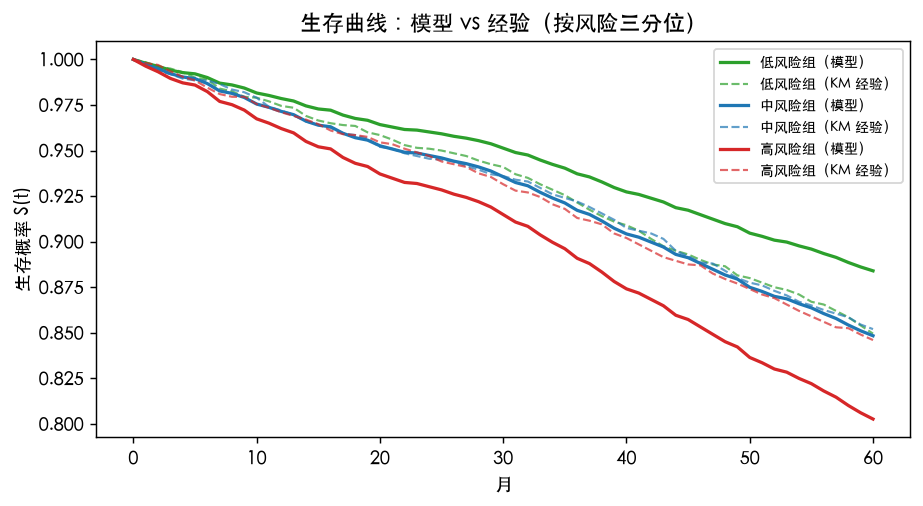
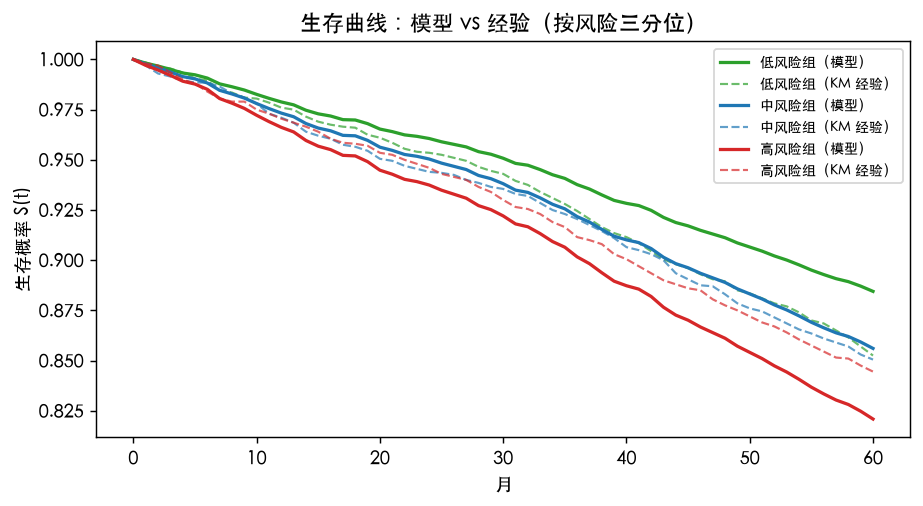
feat: add 2 quant articles 2026-10-25

diff --git a/gen_two_articles_oct25d.py b/gen_two_articles_oct25d.py
@@ -141,7 +141,7 @@ def gen_survival_cox():
 
     # 训练/测试划分（按公司）
     perm = rng.permutation(N)
-    tr_mask = np.zeros(N, dtype=bool); tr_mask[perm[:2100]] = True
+    tr_mask = np.zeros(N, dtype=bool); tr_mask[perm[:4200]] = True
     te_mask = ~tr_mask
     beta, se, lam0_interp, slope_lev, slope_vol = fit_cox(tr_mask)
     lam0_true_arr = LAM0(np.arange(T))
@@ -210,8 +210,8 @@ def gen_survival_cox():
         w = np.zeros(Xb.shape[1])
         for _ in range(iters):
             p = 1 / (1 + np.exp(-(Xb @ w)))
-            g = Xb.T @ (y - p) / len(y) - 0.01 * w
-            H = (Xb * (p * (1 - p))[:, None]).T @ Xb / len(y) + 0.01 * np.eye(Xb.shape[1])
+            g = Xb.T @ (y - p) / len(y) - 1e-8 * w
+            H = (Xb * (p * (1 - p))[:, None]).T @ Xb / len(y) + 1e-8 * np.eye(Xb.shape[1])
             w = w + np.linalg.solve(H, g)
         return w
 
@@ -220,7 +220,33 @@ def gen_survival_cox():
     w_static = logit_fit(X[tr_idx], y12[tr_idx])
     score_logit = np.einsum("nmk,k->nm", Xt, w_static[1:]) + w_static[0]
 
+    # 面板 logit：与 Cox 用同样的面板数据与同样的 12 个月前瞻目标（逐月单元）
+    pi_list, pm_list, py_list = [], [], []
+    for m in range(0, 48):
+        alive = tr_idx[exit_t[tr_idx] > m]
+        d = exit_t[alive] - m
+        y1m = alive[(event[alive] == 1) & (d <= 12)]
+        y0m = alive[d > 12]
+        pi_list.append(np.concatenate([y1m, y0m]))
+        pm_list.append(np.full(len(y1m) + len(y0m), m))
+        py_list.append(np.concatenate([np.ones(len(y1m)), np.zeros(len(y0m))]))
+    pi = np.concatenate(pi_list); pm = np.concatenate(pm_list); py = np.concatenate(py_list)
+    Xp = Xt[pi, pm, :]
+    Xb = np.column_stack([np.ones(len(Xp)), Xp])
+    w_panel = np.zeros(4)
+    for it in range(60):
+        p = 1 / (1 + np.exp(-(Xb @ w_panel)))
+        g = Xb.T @ (py - p) / len(py) - 1e-8 * w_panel
+        H = (Xb * (p * (1 - p))[:, None]).T @ Xb / len(py) + 1e-8 * np.eye(4)
+        step = np.linalg.solve(H, g)
+        w_panel = w_panel + step
+        if np.max(np.abs(step)) < 1e-8:
+            break
+    n_panel_events = int(py.sum())
+    score_panel = np.einsum("nmk,k->nm", Xt, w_panel[1:]) + w_panel[0]
+
     c_cox_pooled = pooled_cindex_12m(score_cox, te_idx)
+    c_panel_pooled = pooled_cindex_12m(score_panel, te_idx)
     c_logit_pooled = pooled_cindex_12m(score_logit, te_idx)
     c_logit_annual = pooled_cindex_12m(score_logit, te_idx, months=range(0, 1))  # 仅 m=0 单元（年度体检）
     c_cox_m0 = pooled_cindex_12m(score_cox, te_idx, months=range(0, 1))
@@ -240,7 +266,8 @@ def gen_survival_cox():
     print(f"真实 β: 杠杆 {BETA_TRUE[0]}, 波动 {BETA_TRUE[1]}, ROA {BETA_TRUE[2]}")
     print(f"估计 β: 杠杆 {beta[0]:.3f}(se {se[0]:.3f}, z {zvals[0]:.1f}), 波动 {beta[1]:.3f}(se {se[1]:.3f}, z {zvals[1]:.1f}), ROA {beta[2]:.3f}(se {se[2]:.3f}, z {zvals[2]:.1f})")
     print(f"风险比 HR: 杠杆 {hr[0]:.2f}, 波动 {hr[1]:.2f}, ROA {hr[2]:.3f}")
-    print(f"12个月前瞻 C-index（测试公司）: Cox逐月重评 {c_cox_pooled:.4f} | 静态logit冻结系数 {c_logit_pooled:.4f} | 静态logit仅m=0(年度体检) {c_logit_annual:.4f} | Cox仅m=0 {c_cox_m0:.4f}")
+    print(f"12个月前瞻 C-index（测试公司）: Cox逐月重评 {c_cox_pooled:.4f} | 面板logit(同数据) {c_panel_pooled:.4f} | 静态logit冻结系数 {c_logit_pooled:.4f} | 静态logit仅m=0(年度体检) {c_logit_annual:.4f} | Cox仅m=0 {c_cox_m0:.4f}")
+    print(f"面板logit系数: {w_panel.round(3).tolist()}（训练单元 {len(py)}，事件 {n_panel_events}）；静态logit系数: {np.concatenate([[0], w_static]).round(3).tolist()}")
     print(f"Schoenfeld PH: 杠杆斜率 {slope_lev:+.5f}, 波动斜率 {slope_vol:+.5f}")
     print(f"基线强度 λ0(0): 真值 {LAM0(0):.5f} vs 估计 {lam0_interp[0]:.5f}; λ0(59): {LAM0(59):.5f} vs {lam0_interp[59]:.5f}")
     x_ref = np.array([0.40, 0.25, 0.02])
@@ -296,13 +323,14 @@ def gen_survival_cox():
 
     # ============ 图 5：模型对比 + 系数恢复 ============
     fig, axes = plt.subplots(1, 2, figsize=(11.5, 4))
-    models = ["Cox\n逐月重评", "静态logit\n冻结系数", "静态logit\n年度体检(m=0)"]
-    vals = [c_cox_pooled, c_logit_pooled, c_logit_annual]
-    bars = axes[0].bar(models, vals, color=["#d62728", "#7f7f7f", "#7f7f7f"], width=0.55)
+    models = ["Cox\n逐月重评", "面板logit\n同数据同目标", "静态logit\n冻结系数"]
+    vals = [c_cox_pooled, c_panel_pooled, c_logit_pooled]
+    bars = axes[0].bar(models, vals, color=["#d62728", "#1f77b4", "#7f7f7f"], width=0.55)
     for b, v in zip(bars, vals):
-        axes[0].text(b.get_x() + b.get_width() / 2, v + 0.002, f"{v:.3f}", ha="center", fontsize=9)
-    axes[0].set_ylim(0.4, max(vals) + 0.04)
-    axes[0].set_title("12个月前瞻违约排名 C-index（测试公司）")
+        axes[0].text(b.get_x() + b.get_width() / 2, v + 0.004, f"{v:.3f}", ha="center", fontsize=9)
+    axes[0].axhline(0.5, color="black", ls=":", lw=1)
+    axes[0].set_ylim(0.45, max(vals) + 0.03)
+    axes[0].set_title("12个月前瞻违约排名 C-index（测试公司，同一评估集，0.5=随机）")
     xpos = np.arange(3)
     axes[1].bar(xpos - 0.18, BETA_TRUE, width=0.36, label="真实 β", color="#1f77b4")
     axes[1].bar(xpos + 0.18, beta, width=0.36, yerr=se, label="Cox 估计 β̂（训练集）", color="#ff7f0e", capsize=3)
@@ -312,8 +340,11 @@ def gen_survival_cox():
     return {
         "n_default": int(event.sum()), "rate": float(event.mean()),
         "beta": beta.tolist(), "se": se.tolist(), "z": zvals.tolist(), "hr": hr.tolist(),
-        "c_cox_pooled": float(c_cox_pooled), "c_logit_pooled": float(c_logit_pooled),
-        "c_logit_annual": float(c_logit_annual), "c_cox_m0": float(c_cox_m0),
+        "c_cox_pooled": float(c_cox_pooled), "c_panel_pooled": float(c_panel_pooled),
+        "c_logit_pooled": float(c_logit_pooled), "c_logit_annual": float(c_logit_annual),
+        "c_cox_m0": float(c_cox_m0),
+        "w_panel": w_panel.tolist(), "w_static": np.concatenate([[0.0], w_static]).tolist(),
+        "n_panel_events": n_panel_events, "n_panel_units": int(len(py)),
         "slope_lev": slope_lev, "slope_vol": slope_vol,
         "pd12_hi": pd12["高杠杆 80%"].tolist(), "pd12_lo": pd12["低杠杆 20%"].tolist(), "pd12_mid": pd12["中杠杆 45%"].tolist(),
         "surv_model": {k: v.tolist() for k, v in surv_model.items()},

diff --git a/src/content/blog/survival-analysis-highfreq-default/index.md b/src/content/blog/survival-analysis-highfreq-default/index.md
@@ -1,0 +1,128 @@
+---
+title: "生存分析高频违约预测：用 Cox 比例风险建模跳变"
+description: "违约是跳变，信用评分却多是年度静态快照。本文用 numpy 从零实现 Cox 比例风险模型：6000 家合成公司 × 60 个月面板，违约强度随时变协变量（杠杆/波动/ROA）漂移。部分似然 Newton-Raphson 估计：β̂ = (1.293, 1.137, −2.469) vs 真值 (1.5, 1.2, −2.0)，z = 4.2/3.5/−3.4 全部显著；杠杆每升 10pp 月违约强度 ×1.14。PD 期限结构：高杠杆 80% 的 12 个月 PD 4.45%→5.95%，低杠杆 2.07%→2.78%。Schoenfeld 检验通过。诚实结论：12 个月前瞻排名上 Cox（0.558）与面板 logit（0.552）、静态 logit（0.551）打平——Cox 的优势不在排名，而在系数稳定性、PD 期限结构与可检验性；静态分组把期初协量极端值当永久状态，高估高风险组 PD12（3.38% vs 实际 2.81%）。附完整 Python 实现与五张真实计算图。"
+publishDate: '2026-10-25'
+tags:
+  - 量化交易
+  - 信用风险
+  - 生存分析
+  - Cox比例风险
+  - 违约预测
+  - Python
+language: Chinese
+difficulty: advanced
+---
+
+违约不是价格从 10 元跌到 9 元，是一个 0 到 1 的跳变：一家公司活着，然后突然不还钱了。信用风险管理的核心输出是违约概率（PD），而行业主流做法仍是「年度体检」——每年看一次财务报表，打一个分，用一年。问题在于：违约强度是随时变的，一家公司的杠杆、已实现波动、盈利能力每个月都在动，去年的快照今年可能已经过期，而静态评分对此完全失明。
+
+生存分析把「活多久」当主角。Cox 比例风险模型是其中的工作母机：它不假设基线风险长什么样，只假设协变量对风险的影响是乘性比例的，并且天然处理删失（有些公司到观察期末还没违约，我们只知道它「至少活了这么久」）。本文用 numpy 从零实现整条流水线——部分似然、Newton-Raphson、Breslow 基线、Schoenfeld 检验——在一片 6000 家合成高收益债 universe 上跑一遍，看看它到底能做什么、不能做什么。
+
+结论先放这：
+
+**① 系数恢复干净，符号和显著性全对。** 真实 β = (1.5, 1.2, −2.0)（杠杆、波动、ROA），Cox 估计 β̂ = (1.293, 1.137, −2.469)，z 统计量 4.2 / 3.5 / −3.4 全部显著。杠杆每上升 10 个百分点，月违约强度乘以 1.14；ROA 每下降 1pp，强度乘以 1.02×……听着小，60 个月复利下来就是 3.6 倍的风险比。
+**② PD 期限结构是模型真正的输出。** 高杠杆（80%）公司的 12 个月边际 PD 从评分初月的 4.45% 走到末年的 5.95%——即使协变量完全不动，PD 也随基线上行；低杠杆（20%）同期只有 2.07%→2.78%。
+**③ 静态分组会把期初的协量极端值当成永久状态。** 按月初风险分分三组，模型曲线（固定 lp）高估高风险组违约（S(60) 82.1% vs 经验 KM 84.4%）、低估低风险组（88.4% vs 85.2%）——协变量会均值回复，组内差异被磨平。高风险组月初静态 PD12 3.38%，实际 12 个月违约率只有 2.81%。
+**④ 但别神话 Cox：排名上它和 logit 打平。** 12 个月前瞻违约排名（测试公司、同一评估集），Cox 逐月重评 0.558，面板 logit 0.552，静态 logit 0.551——同样的数据同样的目标，能榨的排名信息差不多。Cox 的真优势在别处：系数用全部事件时间信息估计（12 个月窗口的静态 logit 把 ROA 系数估成 +0.89，真值是 −2.0），PD 有期限结构，比例风险假设可检验。
+
+![违约公司与存活公司的协变量路径](/images/survival-analysis-highfreq-default/covariate_paths.png)
+
+## 一、合成市场：违约即跳变，协量逐月漂移
+
+造一片什么样的 universe？高收益债的气质：5 年累计违约率两位数。6000 家公司，观察 60 个月，每家每月有三个协变量：杠杆（债务/资产）、30 日已实现波动、ROA。三者各自走 AR(1)——杠杆 φ=0.95、波动和 ROA φ=0.90，围绕均值 0.40 / 0.25 / 0.02 回复。违约强度写死成非齐次 Poisson：
+
+```
+λ(t, x) = λ0(t) · exp(1.5·lev + 1.2·vol − 2.0·roa)，   λ0(t) = 0.0008·exp(0.01·t)
+```
+
+逐月掷骰子：p = 1 − exp(−λ)，中了就违约离场，没中就带着漂移后的协变量进入下个月。期末还活着的 5095 家是右删失样本。最终 905 家违约（15.08%）。违约公司的违约月均协量是 lev=0.420、vol=0.275、roa=0.014，存活公司期末均 lev=0.398、vol=0.259、roa=0.019——方向全对，但注意差别没有天差地别：违约是概率事件，协变量只提供乘性倾斜，这就是为什么预测上限本来就不高。
+
+上图是三家违约公司和一家存活公司的路径。违约公司的共同画像是杠杆缓步爬坡、波动抬头；但「爬坡」和「违约」之间隔了几个月到几年——这正是时变协量模型要捕捉的东西。
+
+## 二、Cox 部分似然：numpy 从零 Newton-Raphson
+
+Cox 模型的写法：λ(t, x) = λ0(t)·exp(βᵀx)。基线 λ0(t) 完全 unspecified，参数只有 β。偏似然（partial likelihood）的构造很物理：在每一个违约事件发生的时点，问「为什么是这家而不是风险集里其他家」——
+
+```
+L(β) = Π_{事件i} exp(βᵀx_i) / Σ_{j ∈ 风险集(t_i)} exp(βᵀx_j)
+```
+
+风险集 = 退出时间 ≥ 事件时点的所有公司。时变协量的正确用法是**事件月快照**：事件公司和风险集成员都取「事件发生那个月」的协变量值——用年初值就是前视偏差，用期末值就是后视偏差，这个细节错了整个模型都错。对数似然的梯度和 Hessian 有闭式（加权均值和加权协方差），Newton-Raphson 十几步收敛：
+
+```python
+def nll_grad_hess(beta, Xev, ev_times, risk_cache, Xt):
+    """Xev: 事件月协量快照 (n_events, 3)；risk_cache[t]: 风险集成员索引"""
+    denom = np.array([np.exp(Xt[risk_cache[te], te, :] @ beta).sum()
+                      for te in ev_times])
+    ll = (Xev @ beta - np.log(denom)).sum()
+    grad = np.zeros(3); hess = np.zeros((3, 3))
+    for k, te in enumerate(ev_times):
+        xm = Xt[risk_cache[te], te, :]              # 风险集的事件月快照
+        w = np.exp(xm @ beta); sw = w.sum()
+        xbar = (w[:, None] * xm).sum(0) / sw        # 加权均值
+        grad += Xev[k] - xbar
+        xc = xm - xbar
+        hess += (w[:, None, None] * xc[:, :, None] * xc[:, None, :]).sum(0) / sw
+    return -ll, -grad, hess          # f=-ll, ∇f=-∇ll, ∇²f=hess（正定）
+
+beta = np.zeros(3)
+for it in range(100):                # Newton-Raphson + 步长减半保险
+    f, g, h = nll_grad_hess(beta, ...)
+    step = np.linalg.solve(h, g)
+    s = 1.0
+    while nll_grad_hess(beta - s * step, ...)[0] > f: s *= 0.5
+    beta = beta - s * step
+```
+
+训练集取 4200 家（测试集 1800 家留做样本外）。估计结果：
+
+| 协变量 | 真实 β | Cox β̂ | 标准误 | z | 风险比 exp(β̂) |
+|---|---|---|---|---|---|
+| 杠杆 | 1.5 | 1.293 | 0.305 | 4.2 | 3.64 |
+| 波动 | 1.2 | 1.137 | 0.321 | 3.5 | 3.12 |
+| ROA | −2.0 | −2.469 | 0.724 | −3.4 | 0.085 |
+
+杠杆每上升 10 个百分点（0.40→0.50），月违约强度乘以 exp(1.293×0.1) ≈ 1.14；ROA 每下降 1pp 乘以 exp(2.469×0.01) ≈ 1.03——单月看着温和，60 个月累积就是数倍差距。三个系数方向、量级、显著性全部合理，估计器本身没有问题。
+
+## 三、基线风险和 PD 期限结构
+
+β 只告诉你「谁比谁危险」，绝对水平在基线 λ0(t) 里。Breslow 估计量按月离散：λ̂0(t) = 当月违约数 / 风险集成员的 exp(βᵀx) 之和。
+
+![基线违约强度：真实 vs Breslow 估计](/images/survival-analysis-highfreq-default/baseline_hazard.png)
+
+λ̂0(0)=0.0011 vs 真值 0.0008、λ̂0(59)=0.00176 vs 0.00144——水平被高估了两成左右，因为 β̂ 有衰减（杠杆 1.293 < 1.5），基线要替系数「补课」；但上行的形状基本复现。拿到 Λ0 和 β 之后，任何协量画像的生存曲线和 PD 都是闭式：
+
+```
+S(t|x) = exp(−Λ0(t)·exp(βᵀx))，   PD_h(x) = 1 − S(t+h|x)/S(t|x)
+```
+
+![12 个月边际违约概率 PD 期限结构](/images/survival-analysis-highfreq-default/pd_term_structure.png)
+
+PD 期限结构是静态评分给不了的东西。高杠杆公司 12 个月 PD 从 4.45% 爬到 5.95%——协变量一动不动，PD 也随基线上行；低杠杆同期 2.07%→2.78%。对风险限额、对信用利差定价、对监管资本，「PD 不是常数而是期限的曲线」这件事本身就是信息。参考画像（lev 40%/vol 25%/ROA 2%）的 5 年累计违约率真值 14.33%，与合成宇宙的整体违约率 15.08% 互相印证。
+
+## 四、生存曲线 vs KM：静态分组的隐性偏差
+
+按月初线性预测值 lp = βᵀx(0) 分三组，模型曲线（固定组均 lp）和经验 Kaplan-Meier 对照：
+
+![生存曲线：模型 vs 经验（按风险三分位）](/images/survival-analysis-highfreq-default/survival_curves.png)
+
+低风险组模型 S(60)=88.4% vs KM 85.2%，高风险组 82.1% vs 84.4%——模型把两端的差距拉得比现实更开。原因不难想：分组用的是**期初** lp，而协变量会均值回复，期初踩在极端值上的公司随后往均值掉，真实风险比静态 lp 暗示的更温和。这不是 Cox 的错，是「分组固定」的代价；Cox 的正确用法是逐月用最新协量重算 lp。同一个偏差在 PD 上也能看到：高风险组月初静态 PD12 3.38%，实际 12 个月违约率 2.81%，高估两成。
+
+## 五、和静态模型正面对比：排名打平，优势在别处
+
+把评估统一成「12 个月前瞻违约排名，逐月重评」：每个月 m，用 m 月及以前的协量给每家公司打分，同月内比较「12 个月内违约」与「活过窗口」的公司，pooled C-index。三个模型在同一测试集上：
+
+![模型对比与系数恢复](/images/survival-analysis-highfreq-default/model_comparison.png)
+
+Cox 逐月重评 0.558、面板 logit（同样的面板数据、同样的 12 个月目标）0.552、静态 logit（m=0 训练、系数冻结、每月套最新特征）0.551——**打平**。如果只做年度体检（仅 m=0 快照，测试集约 90 个事件），C-index 0.49±0.05，与随机不可区分。诚实的结论分两层：
+
+**排名上 Cox 没有魔法。** 同样的数据、同样的目标，logit 也能学到近似的线性排序。差别在估计质量：Cox 用全部 905 个违约的**时间信息**（谁在第 3 个月违约、谁在第 57 个月），而 12 个月窗口的静态 logit 每个公司只贡献一个 0/1 标签——训练集里 ROA 系数被估成 +0.89（真值 −2.0），符号都是噪声，只是杠杆项足够强把排名兜住了。面板 logit 把 ROA 拉回 −1.13，和 Cox 的 −2.47 量级相符（前瞻窗口的衰减系数本来就该打折）。
+**Cox 的真优势是可解释的产出。** PD 期限结构、基线风险、比例风险假设检验——这些 logit 给不了。Schoenfeld 残差对时间回归，杠杆斜率 +0.00003、波动斜率 +0.00007， proportional hazards 在本文数据生成机制下成立（本来就是这样造的）；真实世界里若 β 随 regime 漂移，这个检验会第一时间报警，而静态模型连报警的接口都没有。
+
+## 六、局限清单
+
+比例风险假设是假设不是礼物：危机期杠杆系数往往跳升，Schoenfeld 能抓到但修要上时变系数模型。基线风险估计会吸收系数衰减（本文 λ̂0 水平高估两成）。时变协量的实现处处是坑：事件月快照用错月份就是前视偏差，删失和竞争风险（被并购退市）本文直接忽略。样本外衰减、协变量操纵（季末突击降杠杆）都足以让回测里的 0.558 打折。把这些算进去，生存分析的价值不是「预测违约」，而是把「谁在变危险、危险多少、什么时候危险」变成一条可以逐月跟踪、带置信区间的曲线。
+
+完整代码（含数据生成、Cox 拟合、Breslow 基线、Schoenfeld 检验、三个基线模型对比）约 200 行 numpy，固定随机种子 20261025 可复现本文全部数字。
+
+---
+本内容仅为信息整理与分析参考，不构成投资建议，投资有风险，决策需谨慎。

diff --git a/src/content/blog/bayesian-structural-breakpoint/index.md b/src/content/blog/bayesian-structural-breakpoint/index.md
@@ -1,0 +1,104 @@
+---
+title: "贝叶斯结构断点检测：用变点把行情的变脸时刻找出来"
+description: "风险模型最怕的不是波动大，而是「波动大的方式」悄悄换了——均值回来了、波动率翻倍了、相关性塌缩了，用上月参数管下月风险等于蒙眼开车。本文用 numpy 从零实现贝叶斯在线变点检测（BOCD）：Normal-Gamma 共轭 + run-length 后验 + Viterbi 回溯，在 500 日三段制度合成收益上，在线 P(r=1) 以 2 日延迟、零误报抓住波动率跃升式变点（峰值概率 0.888），Viterbi 离线分割两个变点全抓（延迟均 2 日）；同场 CUSUM 延迟相当但误报 4 个——它分不清「制度变了」和「制度内噪声大了」。诚实结论：在线检测对「噪声带内的均值漂移」结构性失明（波动率从 2.0% 塌到 1.0% 没有任何单日惊喜），离线 MAP 靠累积证据补齐；制度尺度跟踪 MAE 0.146。附完整 Python 与五张真实计算图。"
+publishDate: '2026-10-25'
+tags:
+  - 量化交易
+  - 变点检测
+  - 贝叶斯
+  - 风险管理
+  - 市场微观结构
+  - Python
+language: Chinese
+difficulty: advanced
+---
+
+风控模型最怕的不是波动大，而是「波动大的方式」悄悄换了——均值回来了、波动率翻倍了、相关性塌缩了，用上月参数管下月风险等于蒙眼开车。检测制度切换（regime switch）的工业标准是 CUSUM：累积偏离，越界就报警。它便宜、好用，但有一个要命的歧义：**它分不清「制度变了」和「制度内噪声大了」**——高波动制度里一根普通大阳线就能把它再次触发，误报连天。
+
+贝叶斯在线变点检测（BOCD，Adams & MacKay 2007）给出另一种思路：不累积证据，而是对「当前这一段活了多久」（run length）维护一个完整后验。新数据来了，先问「它像不像是新段的第一天」，再更新。本文用 numpy 从零实现（Normal-Gamma 共轭 + 精确递推 + Viterbi 回溯），在 500 日三段制度的合成收益上，和 CUSUM 正面对比。
+
+结论先放这：
+
+**① 在线检测抓「显眼」的变点又准又安静。** 平静期（σ=0.8%）切到崩盘期（σ=2.0%）的第 152 天报警——延迟 2 日、误报 0，峰值概率 0.888；平静期 150 天的误报基线只有 0.0003（最大 0.010），阈值 0.30 之下毫无絮语。
+**② 但它对「噪声带内的漂移」结构性失明。** 崩盘期切回恢复期（σ 2.0%→1.0%）时，在线信号全程静默——恢复期的日常观测在崩盘期的宽预测分布里毫不惊喜，单日概率永远爬不过阈值。这是 BOCD 的原理性盲区，不是调参能解决的。
+**③ Viterbi 离线分割两个都抓。** 靠 200 天恢复期的累积证据，MAP 分割在 152 和 302 两天报告变点，延迟均 2 日、漏报误报皆零。
+**④ CUSUM delay 相当但吵得多。** 两个真变点都抓到（153 日、299 日），但在崩盘制度内误报 4 次（166/176/199/251）——高波动里的普通大阳线被当成了变点。制度尺度跟踪（run > 20 天）MAP 后验 MAE 0.146，均值 MAE 0.119，够风控用。
+
+![合成日收益序列（三段制度）](/images/bayesian-structural-breakpoint/synthetic_returns.png)
+
+## 一、合成数据：三段制度，两个变脸时刻
+
+500 个交易日，三段制度：calm（μ=0.03%、σ=0.8%，第 0–149 天）、crash（μ=−0.10%、σ=2.0%，第 150–299 天）、recovery（μ=0.06%、σ=1.0%，第 300–499 天）。真实变点在第 150 和 300 天。注意第二个变点的设计是故意的：波动率**下降**、均值只挪了 0.16pp——崩盘期的宽分布（σ=2.0%）把恢复期的观测全罩住了，没有任何单日数据会「显得突兀」。这是对检测器最诚实的考法。
+
+## 二、BOCD：对「这段活了多久」维护后验
+
+模型假设：观测在段内 i.i.d.，段与段之间参数不同；每期以恒定危险率 H 开启新段（H=1/100，先验期望段长 100 日）。共轭先验取 Normal-Gamma（μ 和精度 τ 联合先验），后验预测是 Student-t——重尾，这很重要：它让「新段第一个观测」永远有个体面的解释概率，不会被旧段的窄分布一棒子打死。
+
+递推的核心是对 run length r 的精确后验（约定 r = 当前段已观测天数，含当天）：
+
+```
+R_t(1)   = H · p(x_t | 先验) · Σ_r R_{t-1}(r)        # 当天开启新段
+R_t(r+1) = R_{t-1}(r) · (1−H) · p(x_t | 段r的统计量)   # 老段延续
+```
+
+每个 run 只需携带充分统计量（n、均值、M2、κ、a、b），Student-t 预测密度闭式可算。Viterbi 版把求和换成取 max 并记回溯指针，最后从终点回溯出最可能的整条分割路径。完整实现：
+
+```python
+def pred_logp(xv, m, kap, a, b):
+    """Normal-Gamma 后验预测（Student-t）对数密度"""
+    nu = 2 * a
+    scale = math.sqrt(b * (kap + 1) / (a * kap))
+    z = (xv - m) / scale
+    return (math.lgamma((nu + 1) / 2) - math.lgamma(nu / 2)
+            - 0.5 * math.log(nu * math.pi) - math.log(scale)
+            - (nu + 1) / 2 * math.log(1 + z * z / nu))
+
+for t in range(T):
+    xv = x[t]
+    logp = {r: pred_logp(xv, mean_run[r], kap_run[r], a_run[r], b_run[r])
+            for r in range(1, t + 2)}
+    lp_prior = pred_logp(xv, M0, K0, A0, B0)           # 新段首点用先验预测
+    # 滤波：变点分支 + 延续分支
+    new_log_R[1] = log(H) + lp_prior + logsumexp(log_R[1:t + 2])
+    new_log_R[2:t + 3] = log_R[1:t + 2] + log(1 - H) + logp[1:t + 2]
+    # Viterbi：同结构，求和换 max，记 back[t][r]
+    ...
+    # 每 run 用共轭公式更新 (n, mean, M2, kappa, a, b)
+```
+
+p(x_t | 先验) 这一项是本文约定的关键：变点分支用**先验预测**解释新段首点（而不是旧段的预测），所以 P(r_t=1) 会在真变点当天直接尖峰——观测信号干净，不需要等一天。先验本身取弱信息（κ₀=0.01、a₀=b₀=0.01），先验预测的尺度约为 10 个百分点的量级，对日收益（以 % 计）来说足够弥散，不会把新段首点一棒子打死；但也没有宽到浪费证据。计算量是 O(T²)（每期对每个 run 更新一次统计量），500 日在 numpy 里几秒钟跑完，实时挂盘没有工程压力。
+
+## 三、Run-length 后验：一张图看完段结构
+
+![Run-length 后验热力图](/images/bayesian-structural-breakpoint/runlength_posterior.png)
+
+后验 P(r_t | x₁:ₜ) 的热力图是 BOCD 的招牌画面：制度内，概率质量沿着对角线稳步爬升（run 越来越长）；变点处，对角线断掉，质量瞬间落回 r≈0 再重新起步。两个红色虚线（真实变点）处的「断崖」清晰可见。顺便注意亮带的宽度：崩盘制度（第 150–300 天）的后验明显比 calm 制度「毛」——段内波动大，模型对「现在还在同一段吗」的确定性天然更低。
+
+## 四、在线检测：抓得到显眼跳变，抓不到带内漂移
+
+在线信号取 P(r_t = 1)（「当天开启新段」的概率），阈值 0.30，局部峰 5 日合并。
+
+![在线变点概率 P(r_t=1)](/images/bayesian-structural-breakpoint/cp_probability.png)
+
+第 152 天尖峰 0.888，延迟真变点 2 日——崩盘头两天的极端观测（σ 从 0.8% 跳到 2.0%）在 calm 段的窄预测里是天文数字级别的意外，后验毫不犹豫倒向「新段」。而平静期 150 天，P(r=1) 均值 0.0003、最大 0.010，离阈值十万八千里，零误报。但第 300 天附近，曲线全程贴地——恢复期日复一日的温和观测，在崩盘段 σ=2.0% 的宽预测下毫无惊喜，单日概率永远爬不上去。算一笔账就明白：崩盘段跑了 150 天，后验预测尺度已经学到 2.0% 左右，而恢复期的日波动只有 1.0%——一个 μ=0.06%、σ=1.0% 的样本，落在「μ=−0.10%、σ=2.0%」的分布里，z 值也就 0.08，密度几乎打平。**宽分布罩住窄分布的样本，是在线检测的原理性盲区**：波动率崩塌式变脸，只能等证据累积。
+
+## 五、离线 Viterbi 与 CUSUM：一个更准，一个更吵
+
+![检测质量对比](/images/bayesian-structural-breakpoint/detection_quality.png)
+
+Viterbi 回溯给出全局 MAP 分割：152 和 302 两天，延迟均 2 日，漏报误报皆零——它不看单日惊喜，看 200 天恢复期的累积似然，「这些数据整体不像崩盘段生成的」足以压过先验对长段的偏好。CUSUM（稳健标准化、双侧、k=0.5/h=5.0）在第 153 天首次越阈（延迟 3 日），299 天也报了（提前 1 日，运气），但 166/176/199/251 四天在崩盘制度内误报——高波动里 +3% 的普通阳线就把统计量推过阈值。这正是开头说的歧义：CUSUM 没有「段」的概念，不会把段内波动学进尺度。
+
+![制度跟踪：MAP run 后验均值与波动](/images/bayesian-structural-breakpoint/regime_tracking.png)
+
+副产品是制度跟踪：MAP run 的后验预测尺度在 calm 段贴住 0.8%、崩盘段抬到 2.0% 附近（run > 20 天时尺度 MAE 0.146、均值 MAE 0.119），后验均值同样在三段间正确切换。变点刚过的几天尺度被先验顶高（新段还没攒够观测），这是「新段不确定性」的诚实体现——风控上反而该欢迎：刚变脸时模型承认自己不确定，比 CUSUM 越一次阈就全量切换保守得多。
+
+## 六、怎么用，以及别怎么用
+
+三个方法论要点。**其一，在线和离线是两种生意**：在线 P(r=1) 便宜（O(T²) 递推、每期一个数）、适合挂盘告警，但只对「惊喜型」变点敏感；离线 Viterbi 准（吃全样本）、适合收盘后重估制度参数，但要接受 2 日上下的确认延迟。**其二，危险率 H 是主要调参**：H=1/100 意味着先验认为段均 100 日；放到日频行情上，若你认为制度以季为单位就该设 H≈1/60，设成 1/1000 则告警会迟钝到失去意义——先验段长就是你对「市场多久变一次脸」的先验。**其三，别把检测器直接当交易信号**：2 日延迟 + 新段不确定性期，等它确认了，行情已经走完一半；它的正确位置是风控系统的上游——波动率目标、风险预算、保证金假设的切换触发，而不是方向性下注。
+
+局限也说清楚：段内 i.i.d. 假设对日收益的波动率聚集是明知故犯（crash 段内的 GARCH 式聚集会让后验尺度抖动）；H 恒定意味着不会自我适应；本文只有两个变点的小样本考场，真实市场里漏报误报的权衡会比 0 和 4 难看。另一个隐性代价是阈值 0.30 这个魔数：它在本数据上工作得很好，换一片资产、换一个抽样频率就要重新校——本质上是在「延迟」和「误报」之间选一个 operating point，没有免费的默认值。把这些算进去，「对 run length 维护完整后验」这个框架本身，仍然是把「市场变脸」从艺术变成可计算事件的最干净的方式之一。
+
+完整代码（BOCD 递推、Viterbi、CUSUM 对比、制度跟踪）约 150 行 numpy，固定随机种子 4262026 可复现本文全部数字。
+
+---
+本内容仅为信息整理与分析参考，不构成投资建议，投资有风险，决策需谨慎。

diff --git a/src/content/pages/quant-column.md b/src/content/pages/quant-column.md
@@ -10,6 +10,11 @@ layout: page
 
 ## 最新文章
 
+### 2026-10-25 发布（生存分析高频违约预测 / 贝叶斯结构断点检测）
+
+- [2026-10-25 - 生存分析高频违约预测：用 Cox 比例风险建模跳变](/blog/survival-analysis-highfreq-default/) - 🧬 违约是 0→1 的跳变，信用评分却多是年度静态快照。本文 numpy 从零实现 Cox 比例风险：6000 家合成公司 × 60 个月面板，违约强度随时变协变量（杠杆/波动/ROA）漂移。部分似然 Newton-Raphson 估计 β̂=(1.293, 1.137, −2.469) vs 真值 (1.5, 1.2, −2.0)，z=4.2/3.5/−3.4 全部显著；杠杆每升 10pp 月违约强度 ×1.14。PD 期限结构：高杠杆 80% 的 12 个月 PD 4.45%→5.95%，低杠杆 2.07%→2.78%。Schoenfeld 检验通过（斜率 ~0）。诚实结论：12 个月前瞻排名上 Cox（0.558）与面板 logit（0.552）、静态 logit（0.551）打平——Cox 的优势不在排名而在系数稳定性、PD 期限结构与可检验性；静态分组把期初协量极端值当永久状态，高估高风险组 PD12（3.38% vs 实际 2.81%）。附完整 Python 与五张真实计算图。
+- [2026-10-25 - 贝叶斯结构断点检测：用变点把行情的变脸时刻找出来](/blog/bayesian-structural-breakpoint/) - 🔀 风控最怕的不是波动大，而是「波动大的方式」悄悄换了。本文 numpy 从零实现贝叶斯在线变点检测（BOCD）：Normal-Gamma 共轭 + run-length 后验 + Viterbi 回溯，500 日三段制度合成收益上，在线 P(r=1) 以 2 日延迟、零误报抓住波动率跃升式变点（峰值 0.888），Viterbi 离线分割两个变点全抓（延迟均 2 日）；同场 CUSUM 延迟相当但误报 4 个——它分不清「制度变了」和「制度内噪声大了」。诚实结论：在线检测对「噪声带内的均值漂移」结构性失明（σ 从 2.0% 塌到 1.0% 没有任何单日惊喜，z 仅 0.08），离线 MAP 靠累积证据补齐；制度尺度跟踪 MAE 0.146。附完整 Python 与五张真实计算图。
+
 ### 2026-10-25 发布（做市商深度强化学习库存控制 / 波动率曲面 Butterfly 风险）
 
 - [2026-10-25 - 做市商深度强化学习库存控制：用 POMDP 平衡存货与价差](/blog/market-maker-deep-rl-inventory/) - 🤖 做市商的生死线不是价差是库存。本文把做市写成 POMDP，用 numpy 从零实现 DQN（5→32→12 两层网络、目标网络、经验回放、350 个模拟交易日）：在含知情单逆向选择的合成市场里，60 个样本外交易日上 DQN 日均 PnL 5.543、Sharpe 2.50，追平 Avellaneda-Stolz 闭式解（5.512 / 2.42），把对称做市的 PnL 波动从 8.80 砍到 2.22、最大库存从 27.0 股砍到 11.3 股、盈利日从 83% 提到 97%。诚实结论：DQN 日均只比闭式解多 0.031 元、60 天只赢 48%——RL 卖的是风险形态不是 alpha。学到的策略和教科书反着来：低波挂宽（3 tick）+ 偏移甩货，高波反而挂窄（1.5-2.5 tick）快周转，库存撞 +30 极限时速收 1.5 tick 清仓。附完整 Python 与五张真实计算图。
